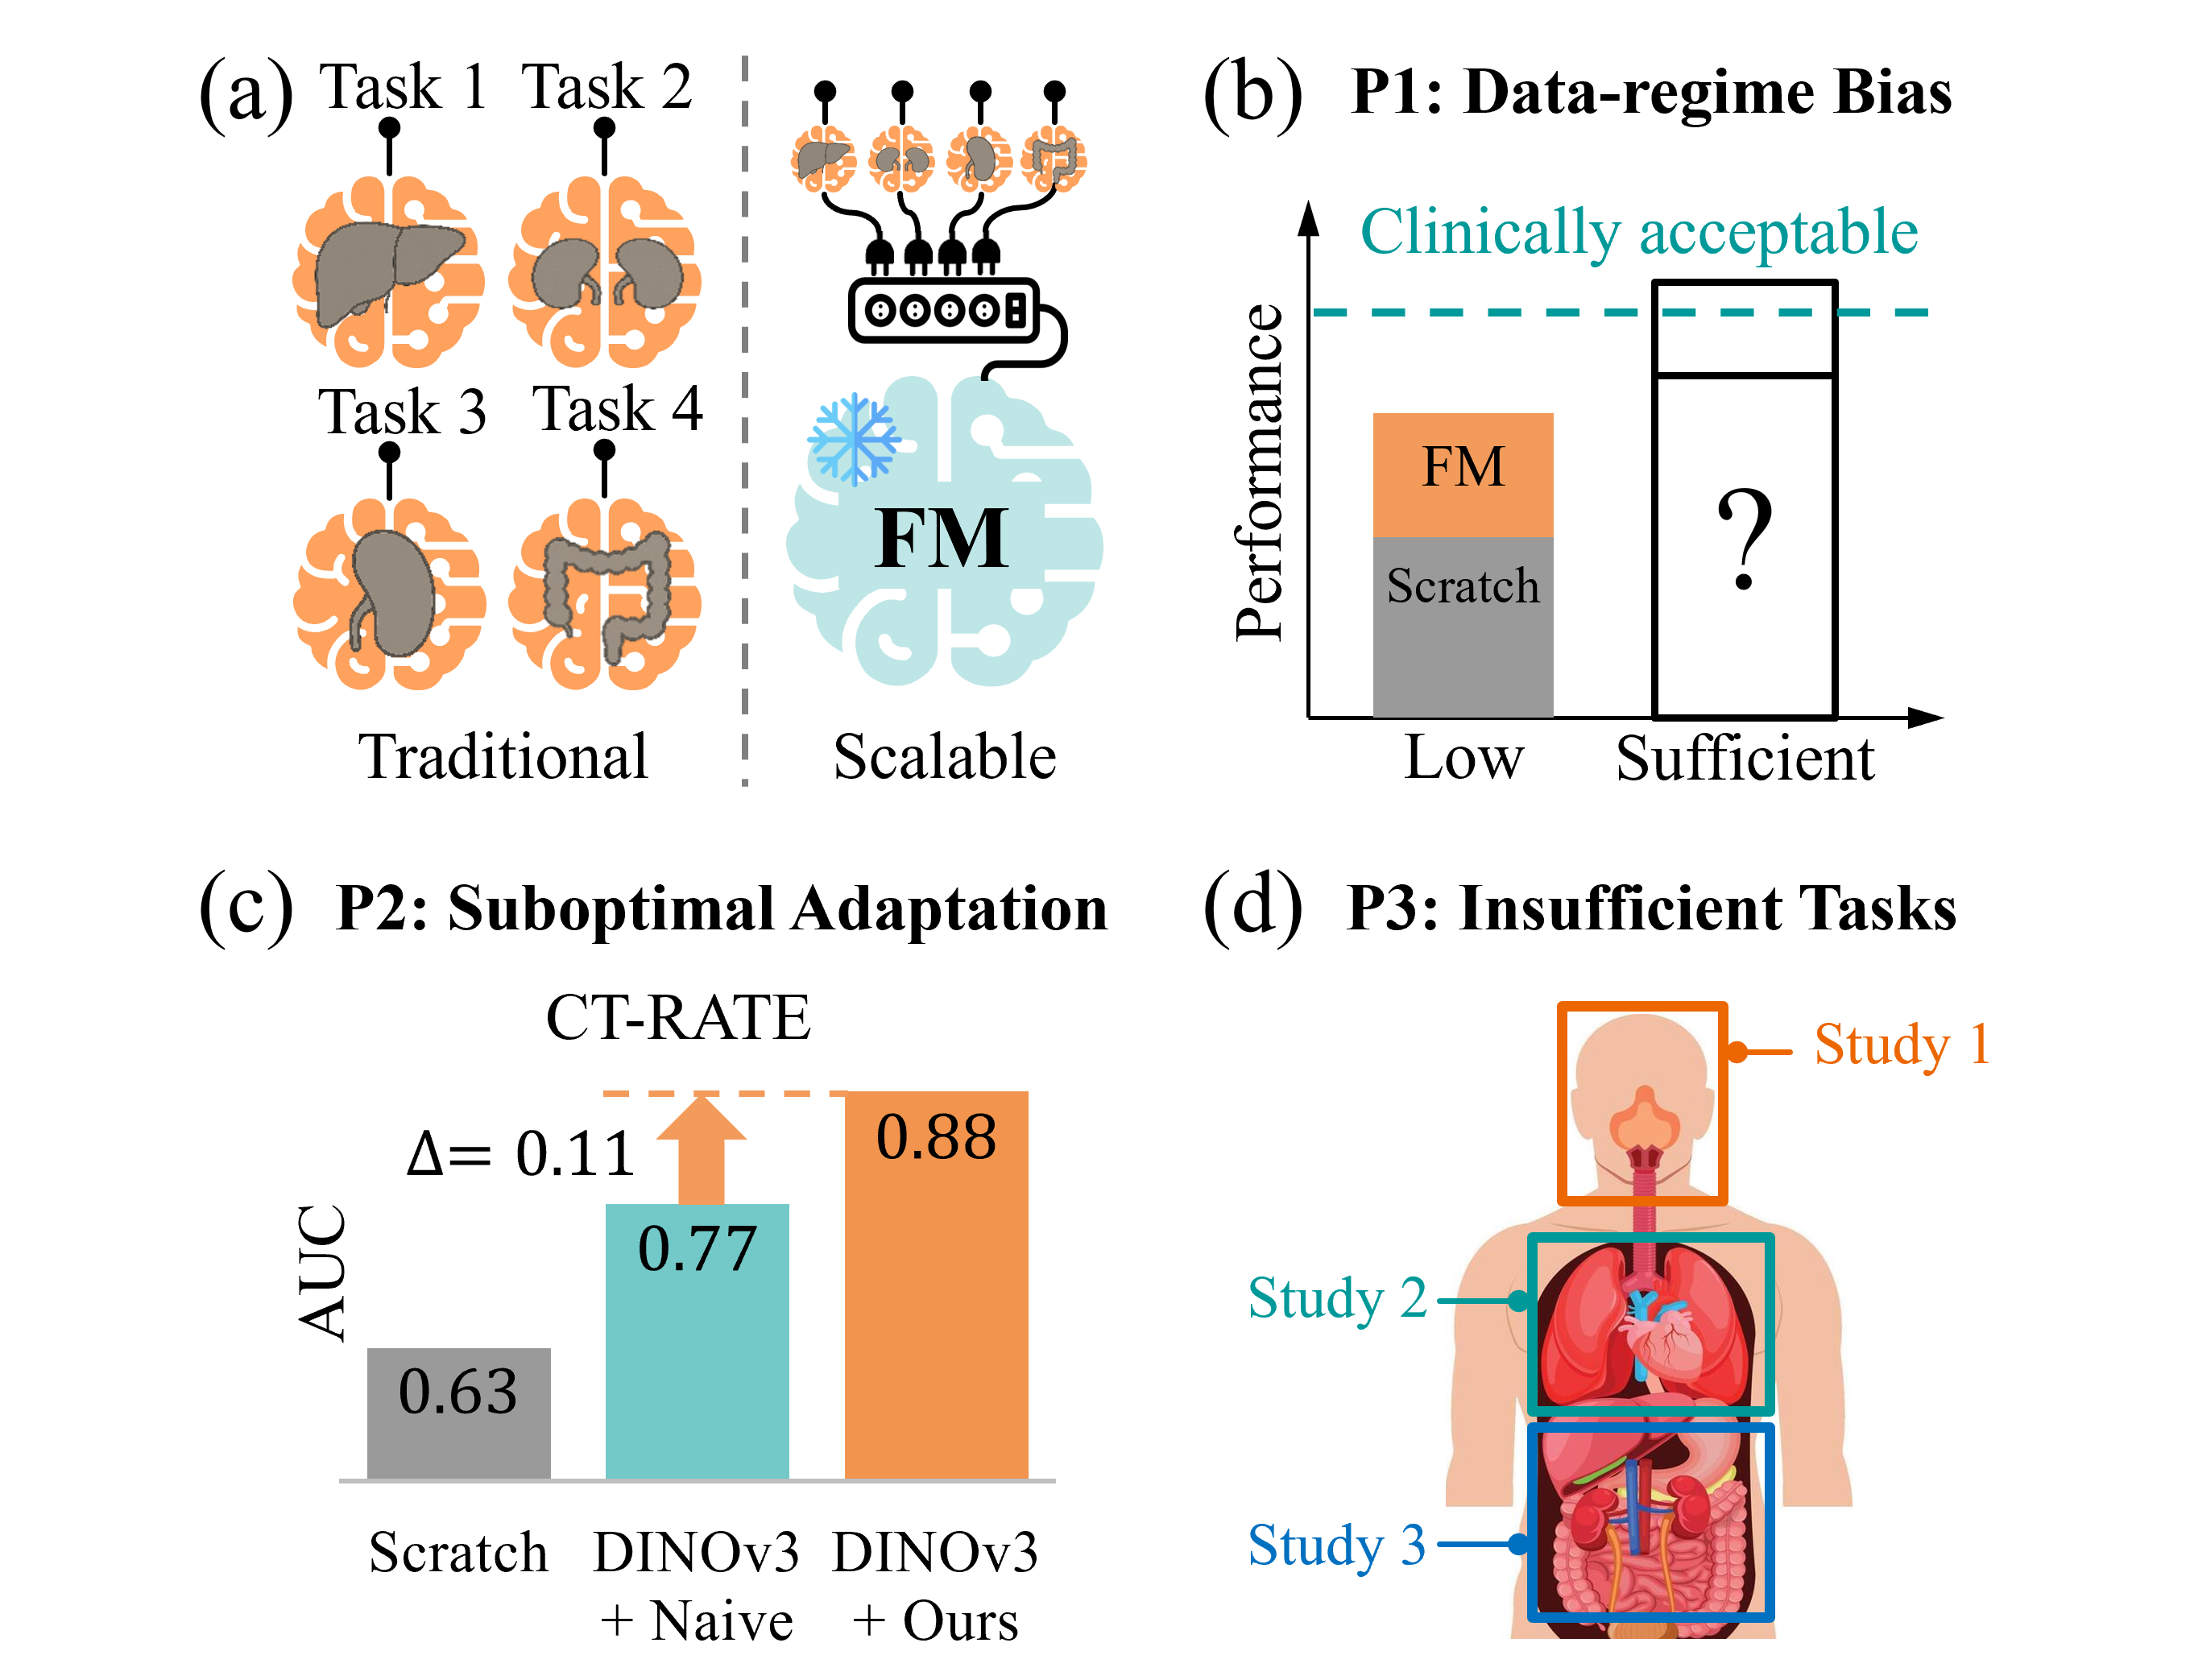
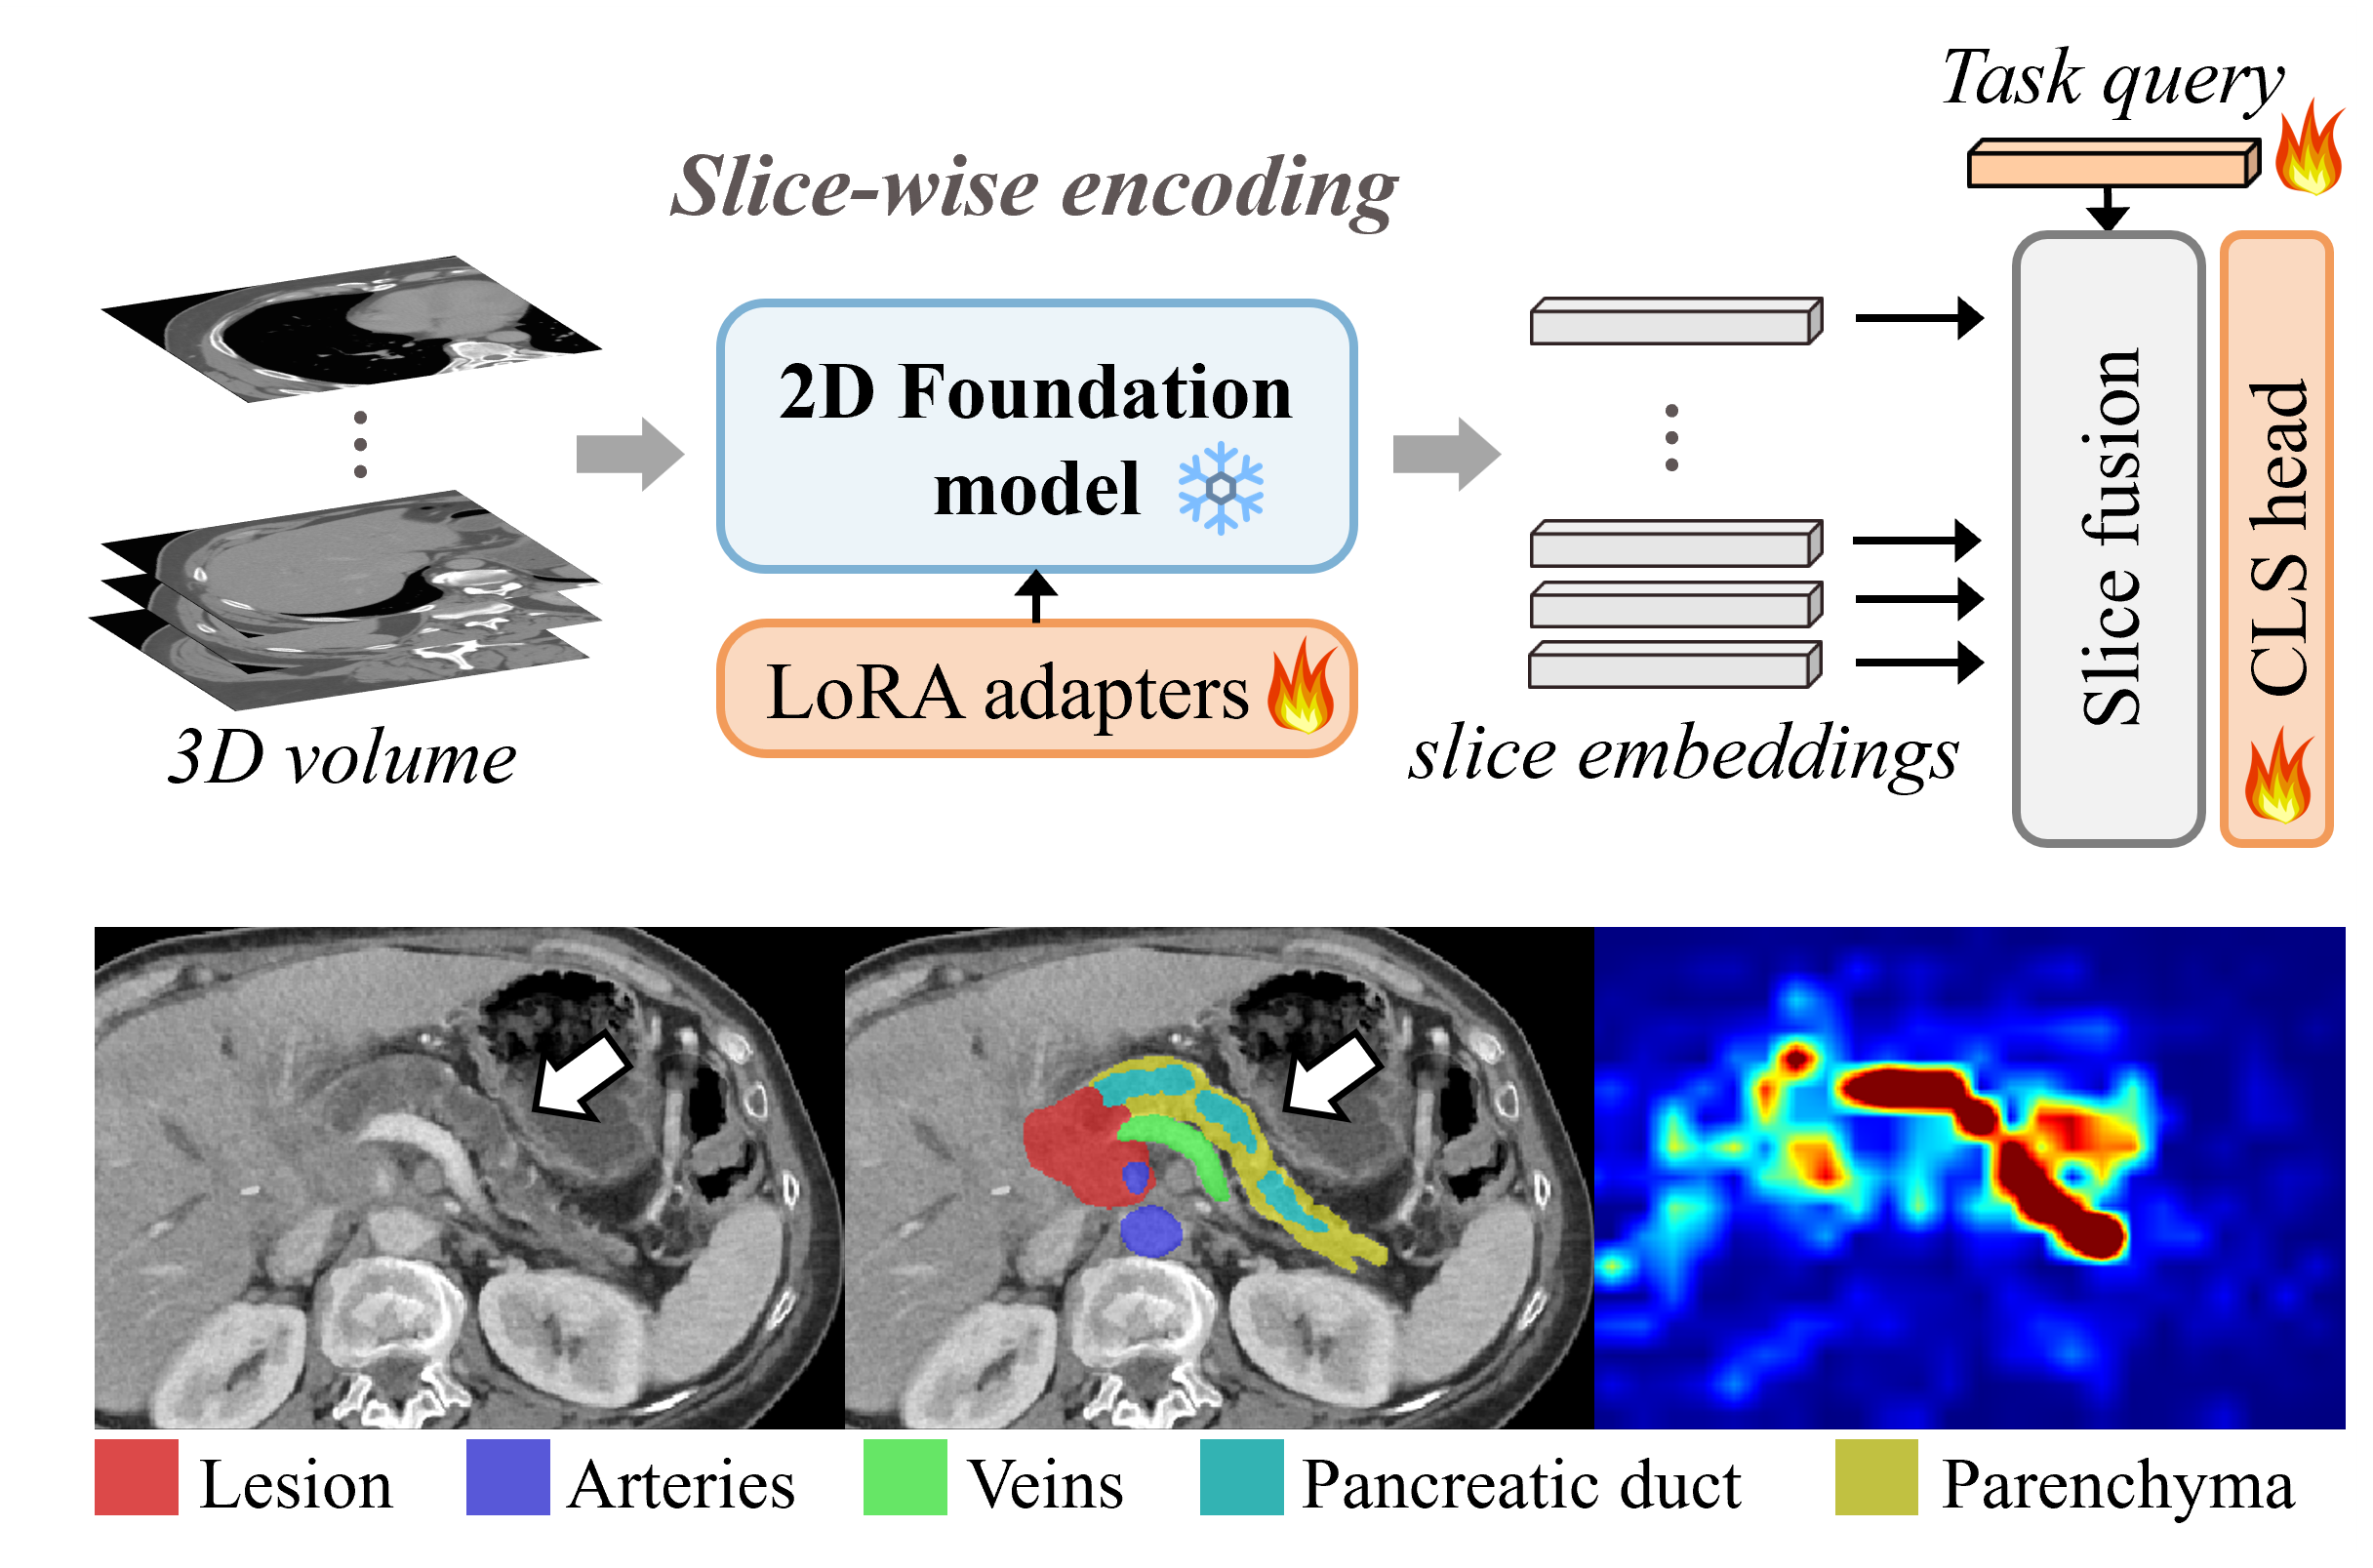
Update script.js and publication assets (poster, images)

diff --git a/script.js b/script.js
@@ -6,7 +6,7 @@ document.querySelectorAll('a[href^="#"]').forEach(anchor => {
         const targetElement = document.getElementById(targetId);
         
         if (targetElement) {
-            const offsetTop = targetElement.offsetTop - 20;
+            const offsetTop = targetElement.offsetTop - 64;
             window.scrollTo({
                 top: offsetTop,
                 behavior: 'smooth'
@@ -51,4 +51,91 @@ document.addEventListener('DOMContentLoaded', () => {
             link.setAttribute('rel', 'noopener noreferrer');
         }
     });
+});
+
+// Plot the current visitor's location on the footer world map.
+// Uses a free, key-less IP geolocation API. No signup required.
+document.addEventListener('DOMContentLoaded', () => {
+    const map = document.getElementById('worldMap');
+    if (map) {
+        const dot = document.getElementById('worldMapDot');
+        const hint = document.getElementById('worldMapHint');
+        const details = document.getElementById('visitorDetails');
+        let visitorData = null;
+
+        const escapeHtml = (value) => String(value)
+            .replace(/&/g, '&amp;')
+            .replace(/</g, '&lt;')
+            .replace(/>/g, '&gt;');
+
+        const renderDetails = () => {
+            if (!details) return;
+            if (!visitorData) {
+                details.innerHTML = '<p class="visitor-details-empty">Visit details are unavailable.</p>';
+                return;
+            }
+            const d = visitorData;
+            const rows = [
+                ['Location', [d.city, d.region, d.country].filter(Boolean).join(', ')],
+                ['Coordinates', (typeof d.latitude === 'number' && typeof d.longitude === 'number')
+                    ? `${d.latitude.toFixed(2)}, ${d.longitude.toFixed(2)}` : ''],
+                ['IP address', d.ip],
+                ['Connection', d.connection && d.connection.isp ? d.connection.isp : ''],
+                ['Timezone', d.timezone && d.timezone.id ? d.timezone.id : '']
+            ].filter(([, value]) => value);
+
+            details.innerHTML = rows.map(([label, value]) =>
+                `<div class="visitor-details-row"><span class="visitor-details-label">${label}</span>` +
+                `<span class="visitor-details-value">${escapeHtml(value)}</span></div>`
+            ).join('');
+        };
+
+        const toggleDetails = () => {
+            if (!details) return;
+            details.hidden = !details.hidden;
+            if (!details.hidden) renderDetails();
+        };
+
+        map.addEventListener('click', toggleDetails);
+        map.addEventListener('keydown', (e) => {
+            if (e.key === 'Enter' || e.key === ' ') {
+                e.preventDefault();
+                toggleDetails();
+            }
+        });
+
+        fetch('https://ipwho.is/')
+            .then(response => response.json())
+            .then(data => {
+                if (!data || typeof data.latitude !== 'number' || typeof data.longitude !== 'number') {
+                    return;
+                }
+                visitorData = data;
+                // Equirectangular projection -> percentage offsets within the map.
+                const x = (data.longitude + 180) / 360 * 100;
+                const y = (90 - data.latitude) / 180 * 100;
+                dot.style.left = x + '%';
+                dot.style.top = y + '%';
+                dot.hidden = false;
+                if (hint) hint.hidden = false;
+            })
+            .catch(() => { /* leave the dot hidden if lookup fails */ });
+    }
+
+    // Count how many people visit the site (shared, accumulating total; no signup).
+    const countEl = document.getElementById('visitorCount');
+    if (countEl) {
+        const text = countEl.querySelector('.visitor-count-text');
+        fetch('https://abacus.jasoncameron.dev/hit/han-liu-github-io/visits')
+            .then(response => response.json())
+            .then(data => {
+                const n = data && typeof data.value === 'number' ? data.value : null;
+                text.textContent = n !== null
+                    ? `${n.toLocaleString()} visitors`
+                    : 'Visitor count unavailable';
+            })
+            .catch(() => {
+                text.textContent = 'Visitor count unavailable';
+            });
+    }
 });